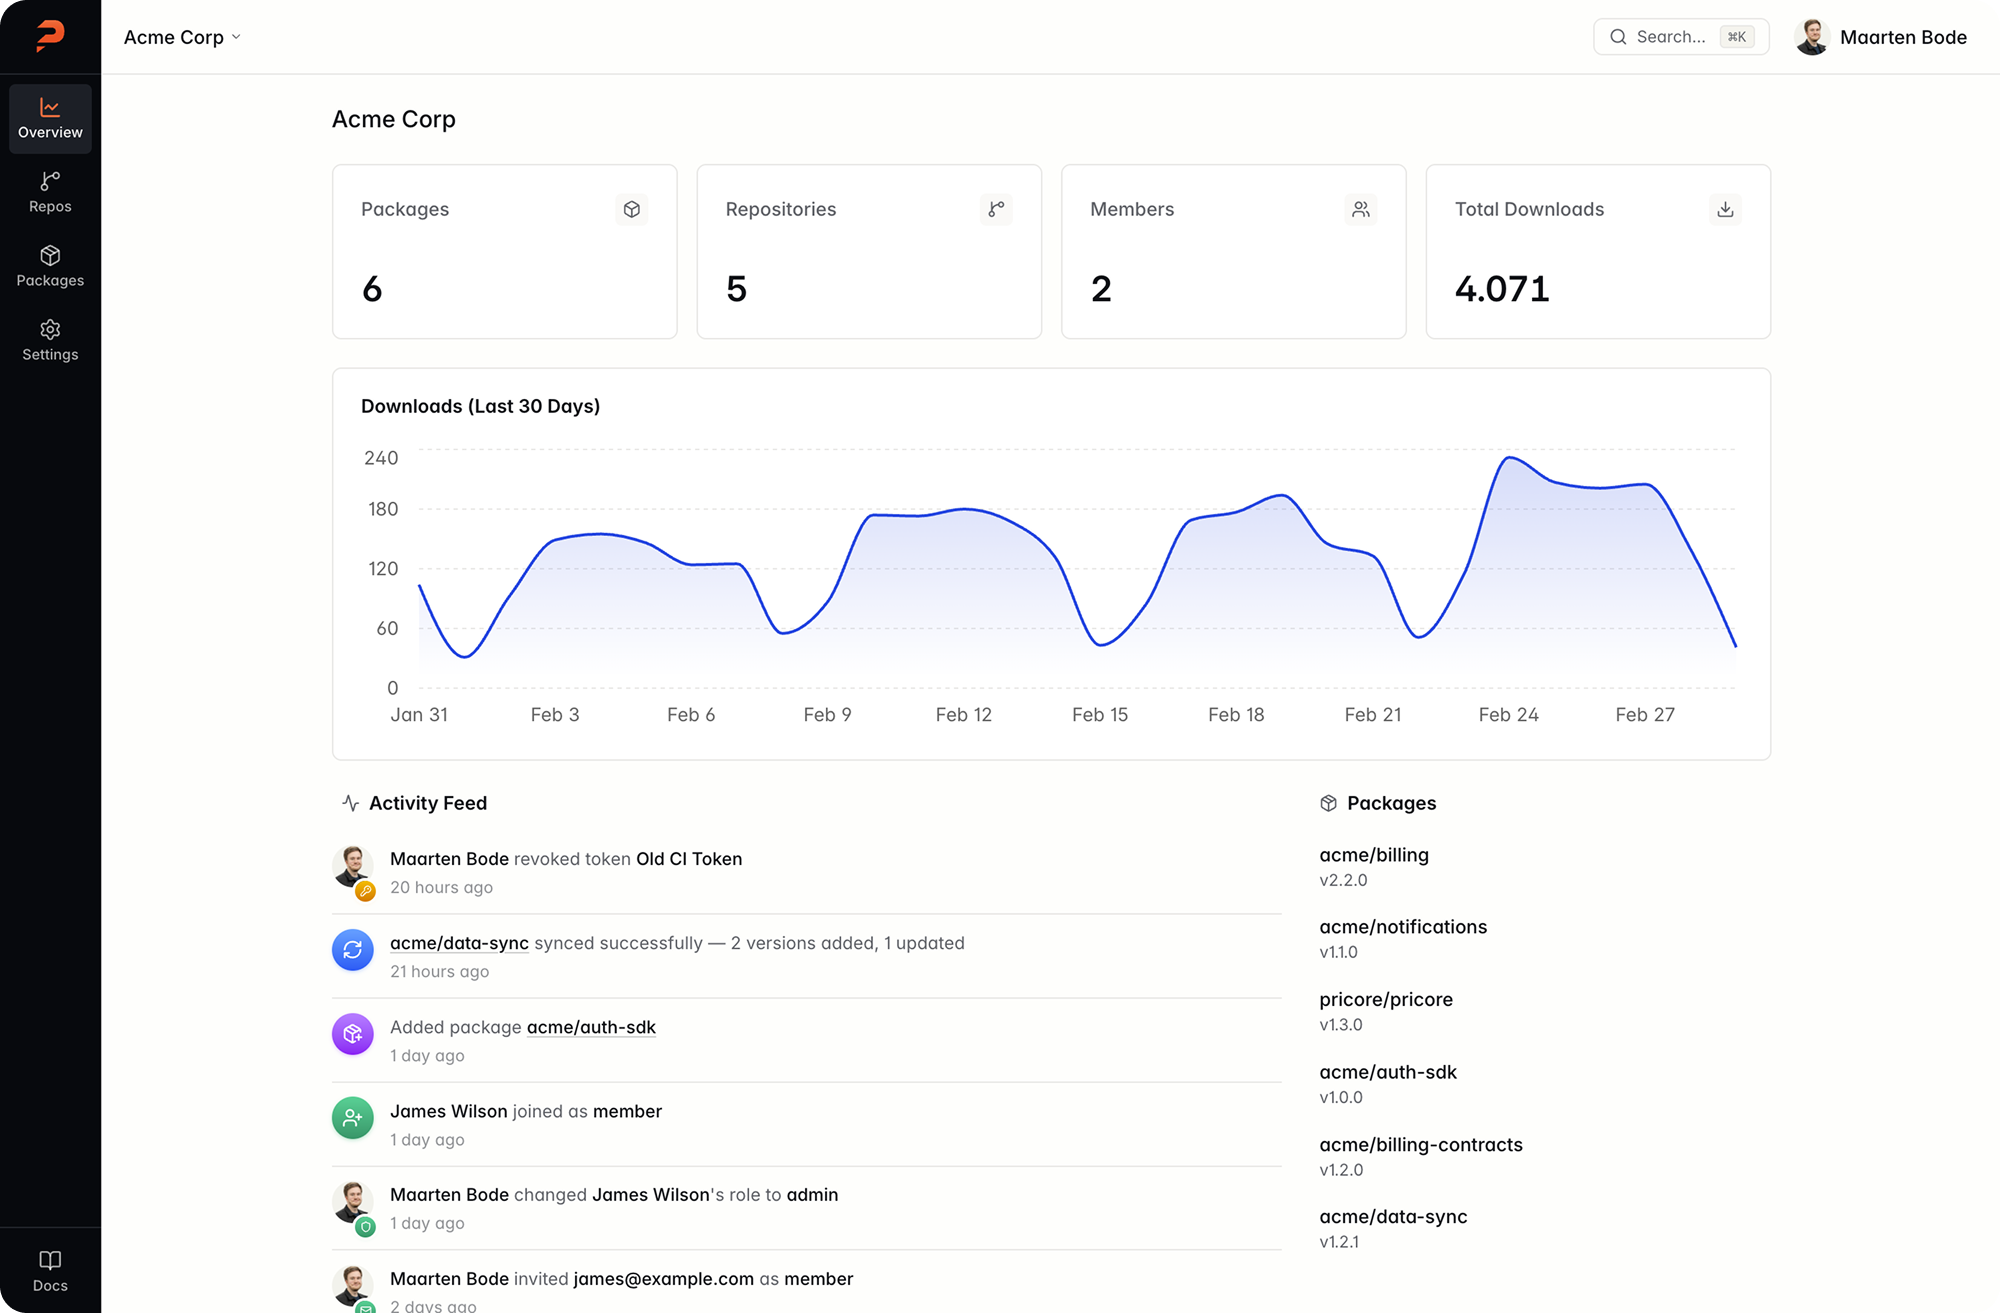
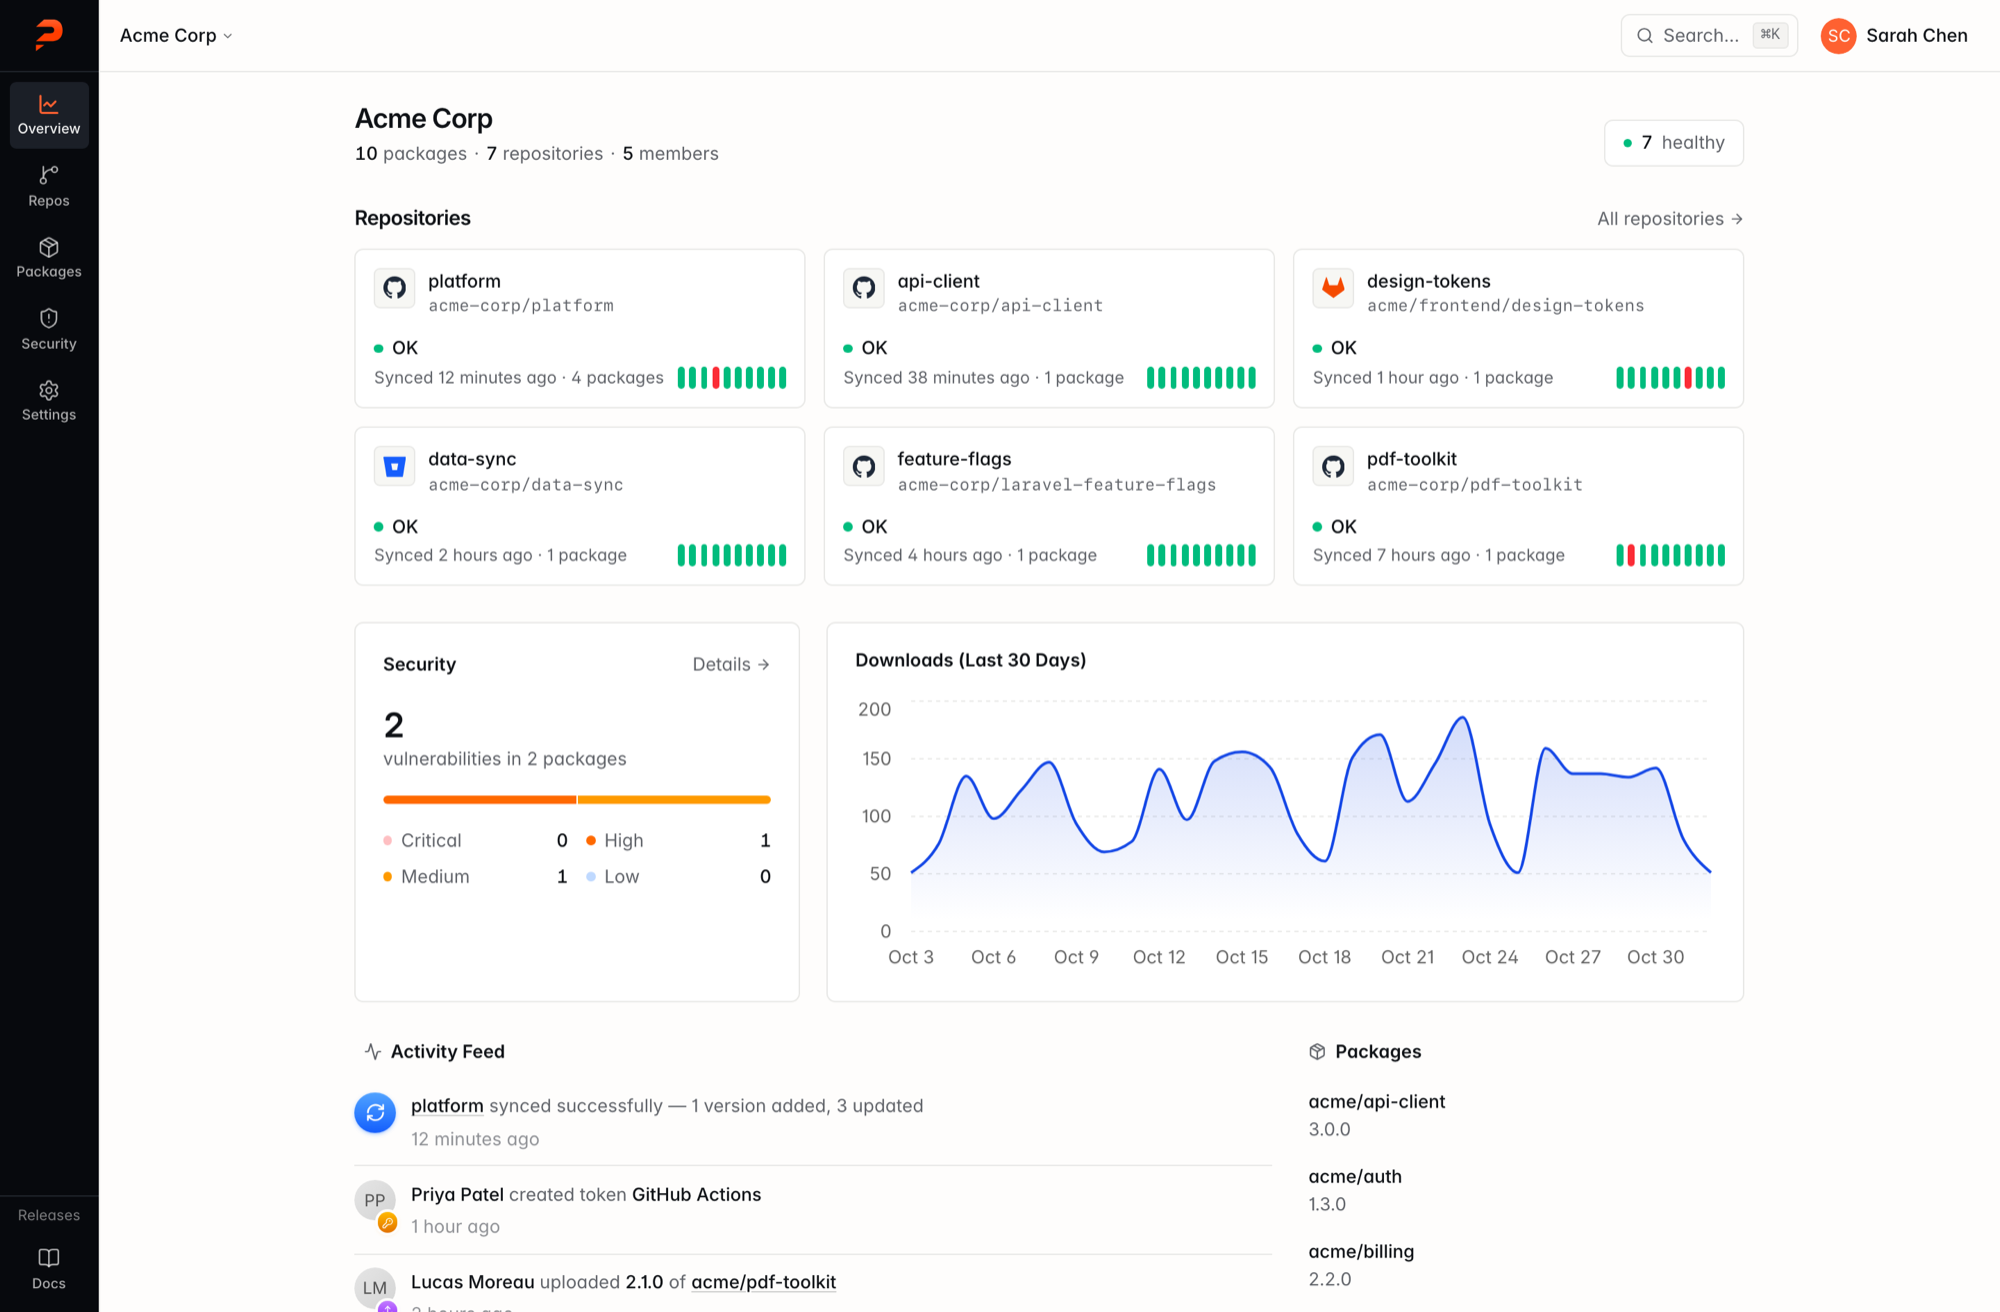
docs: update README screenshot to the current UI

diff --git a/README.md b/README.md
@@ -17,7 +17,7 @@ Manage your packages with a registry that just works.
 </p>
 
 <p align="center">
-<img src="./docs/public/pricore-landing.png?v=20260228" alt="Pricore Dashboard">
+<img src="./docs/public/pricore-landing.png?v=20261101" alt="Pricore Dashboard">
 </p>
 
 ## About Pricore
